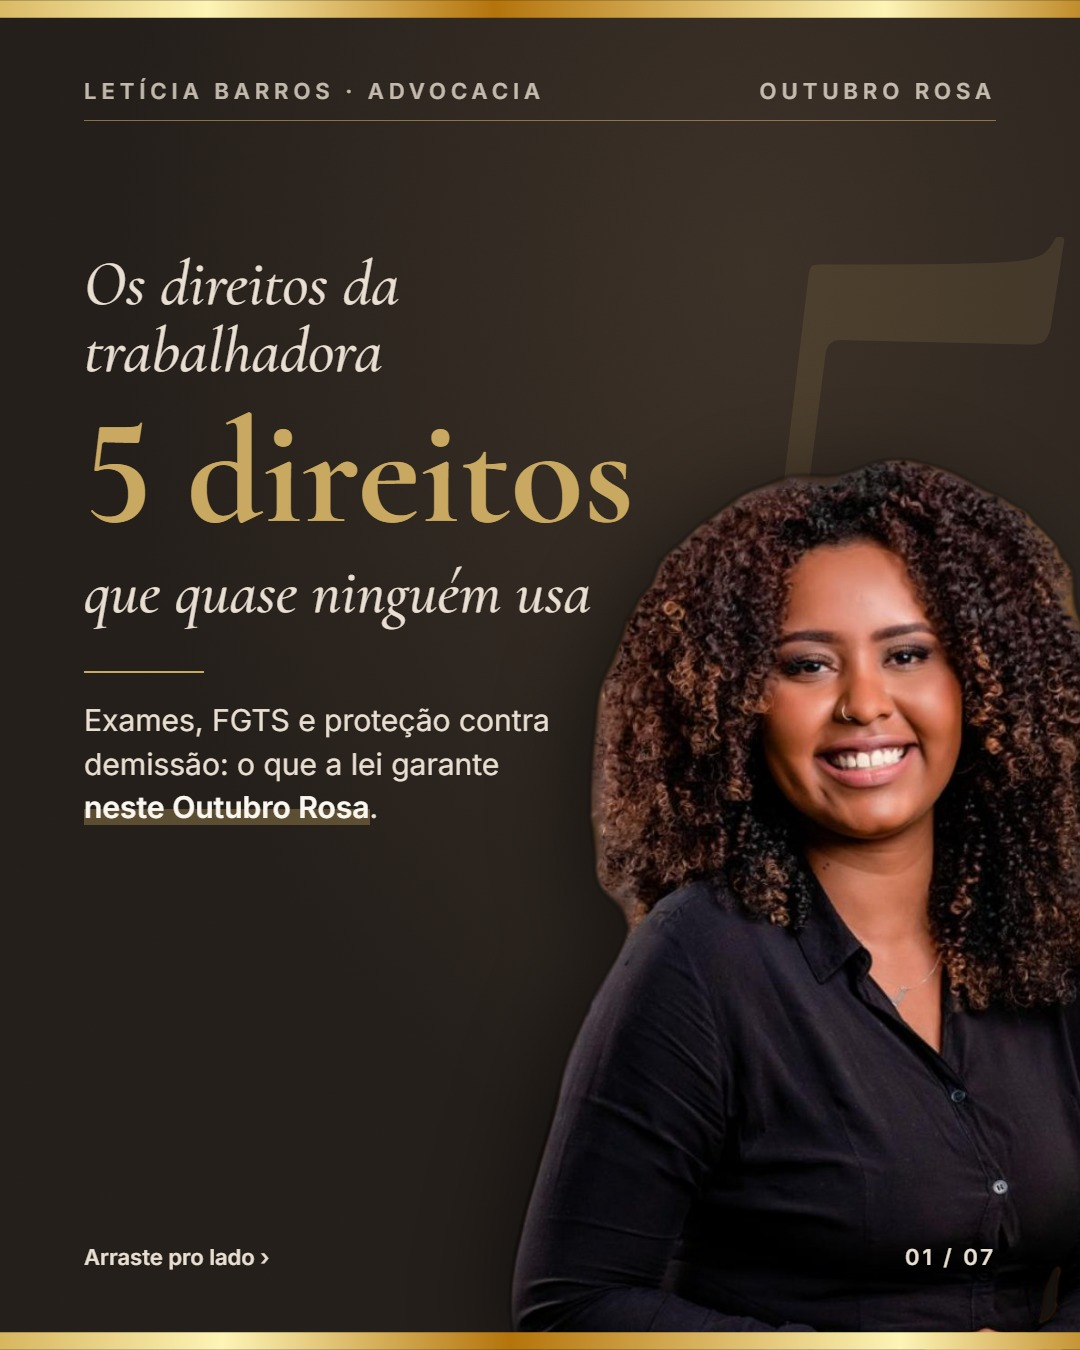
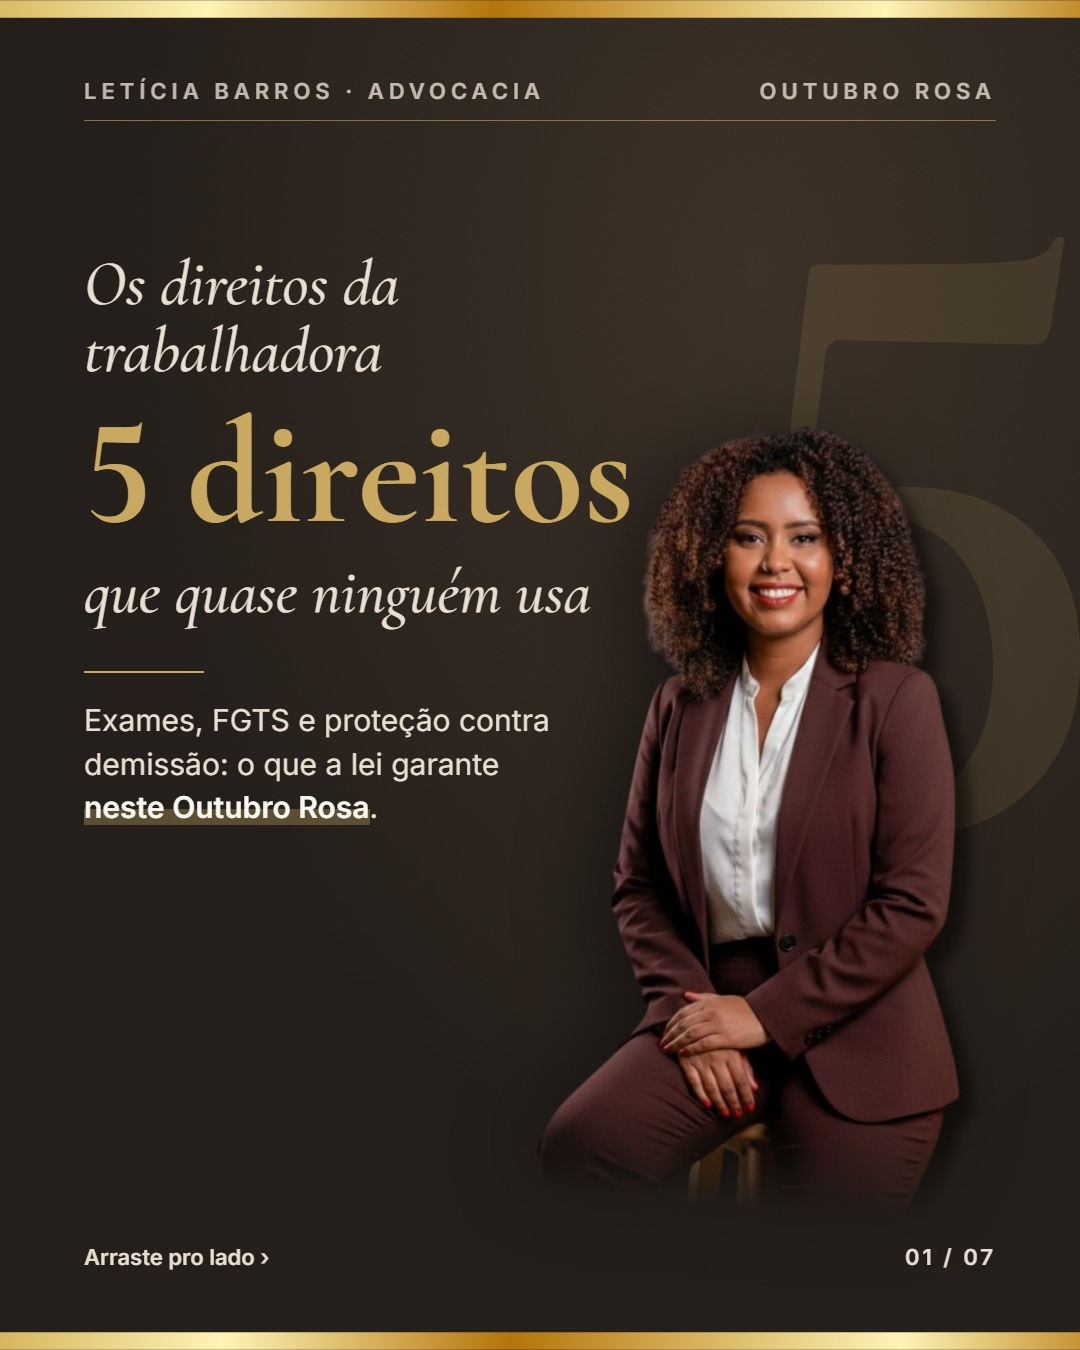
conteúdo: protótipo v4 com fotos reais do ensaio; regra de fotos da Letícia no manual

Changed region(s): [[0.4889, 0.3111, 1.0, 1.0], [0.4583, 0.9022, 0.4889, 0.9333]]

diff --git a/apps/api/_saida_producao_1510/carrossel_v4.py b/apps/api/_saida_producao_1510/carrossel_v4.py
@@ -91,7 +91,7 @@ body { width:7560px; height:1350px; }
     <div style="width:120px; height:2px; background:#C9A962; margin:44px 0 26px;"></div>
     <div style="font-size:30px; line-height:1.45; color:#E8DED1; width:470px;">Exames, FGTS e proteção contra demissão: o que a lei garante <span class="mt">neste Outubro Rosa</span>.</div>
   </div>
-  <img class="obj" src="{{ leticia }}" style="right:-120px; bottom:0; height:900px; filter:drop-shadow(-20px 10px 40px rgba(0,0,0,.45)); z-index:4;">
+  <img class="obj" src="{{ leticia_capa }}" style="right:-90px; bottom:0; height:940px; filter:drop-shadow(-20px 10px 40px rgba(0,0,0,.45)); z-index:4;">
   <div class="rod"><span>Arraste pro lado ›</span><span class="pg">01 / 07</span></div>
 </div>
 
@@ -166,15 +166,15 @@ body { width:7560px; height:1350px; }
 <!-- 7 FECHAMENTO (escuro) -->
 <div class="s escuro textura" style="left:6480px">
   <div class="cab"><span>Letícia Barros · Advocacia</span><span>Outubro Rosa</span></div>
-  <div class="bloco" style="top:330px; left:430px; width:580px;">
-    <div class="cg" style="font-size:86px; font-weight:600; line-height:1.02; color:#FAF6F0;">Cuidar da saúde<br>é <em style="font-style:italic; color:#C9A962;">direito</em>.</div>
+  <div class="bloco" style="top:330px; left:500px; width:520px;">
+    <div class="cg" style="font-size:78px; font-weight:600; line-height:1.02; color:#FAF6F0;">Cuidar da saúde<br>é <em style="font-style:italic; color:#C9A962;">direito</em>.</div>
     <div class="cg" style="font-style:italic; font-size:56px; color:#E8DED1; margin-top:18px;">Não é favor da empresa.</div>
     <div style="font-size:30px; line-height:1.45; color:#E8DED1; margin-top:40px;"><span class="mt">Salve este post</span> e mande para uma colega de trabalho.</div>
     <div style="margin-top:48px;"><span class="btn">⚖ Procure uma advogada</span></div>
   </div>
   <div class="rod"><span>@adv.leticiabarros2</span><span class="pg">OAB/ES 39.948</span></div>
 </div>
-<img class="obj" src="{{ leticia }}" style="left:6440px; bottom:0; height:820px; z-index:4;">
+<img class="obj" src="{{ leticia_fecho }}" style="left:6400px; bottom:0; height:800px; z-index:4;">
 
 <!-- elementos contínuos -->
 <div class="arco" style="left:1700px; top:860px; width:1150px; height:1150px;"></div>
@@ -187,7 +187,7 @@ body { width:7560px; height:1350px; }
 
 async def main() -> None:
     html = HTML.render(
-        ruido=RUIDO, leticia=png("corte-leticia.png"), estetoscopio=png("corte-estetoscopio.png"),
+        ruido=RUIDO, leticia_capa=png("leticia-real-sentada.png"), leticia_fecho=png("leticia-real-sorrindo.png"), estetoscopio=png("corte-estetoscopio.png"),
         laco=png("corte-laco2.png"), reais=png("corte-reais.png"),
         foto5=foto(FOTOS / "8872674.jpg", foco=0.2),
     )

diff --git a/docs/MANUAL_CONTEUDO_REDES.md b/docs/MANUAL_CONTEUDO_REDES.md
@@ -28,8 +28,14 @@ e Código de Ética e Disciplina.
 - Impulsionar só conteúdo informativo, sem oferta de serviço.
 - Proibido ostentação (carro, viagem, bens), símbolos oficiais da OAB, pagar por
   ranking/prêmio, comprar engajamento.
-- Imagem gerada por IA nunca representa a Letícia, clientes ou o escritório
-  (induz a erro, art. 3º II). Último slide usa foto real dela.
+- Fotos da Letícia, em ordem de preferência: (1) ensaio real recortado em
+  `Desktop/PROJETOS/modelo-visual-site/assets/images/` (alta resolução:
+  `hero-leticia-ternomarromsentada-sem-fundo.png`, `hero-leticia-sem-fundo.png`;
+  os `*-removebg-preview.png` são 408×612, só para uso pequeno); (2) foto de perfil do
+  Instagram; (3) retratos dela feitos com IA a partir do rosto real
+  (`BANCO IMAGENS/Advogada/`), liberados por ela em 09/10/2026. Aviso: imagens do
+  ChatGPT/Gemini carregam marca C2PA e o Instagram pode exibir "Informações de IA".
+  Nunca IA para criar cliente, caso, evento ou situação que não existiu (art. 3º II).
 - OAB/ES 39.948 na legenda ou no último slide.
 
 ## 2. Meta (eliminatório)
